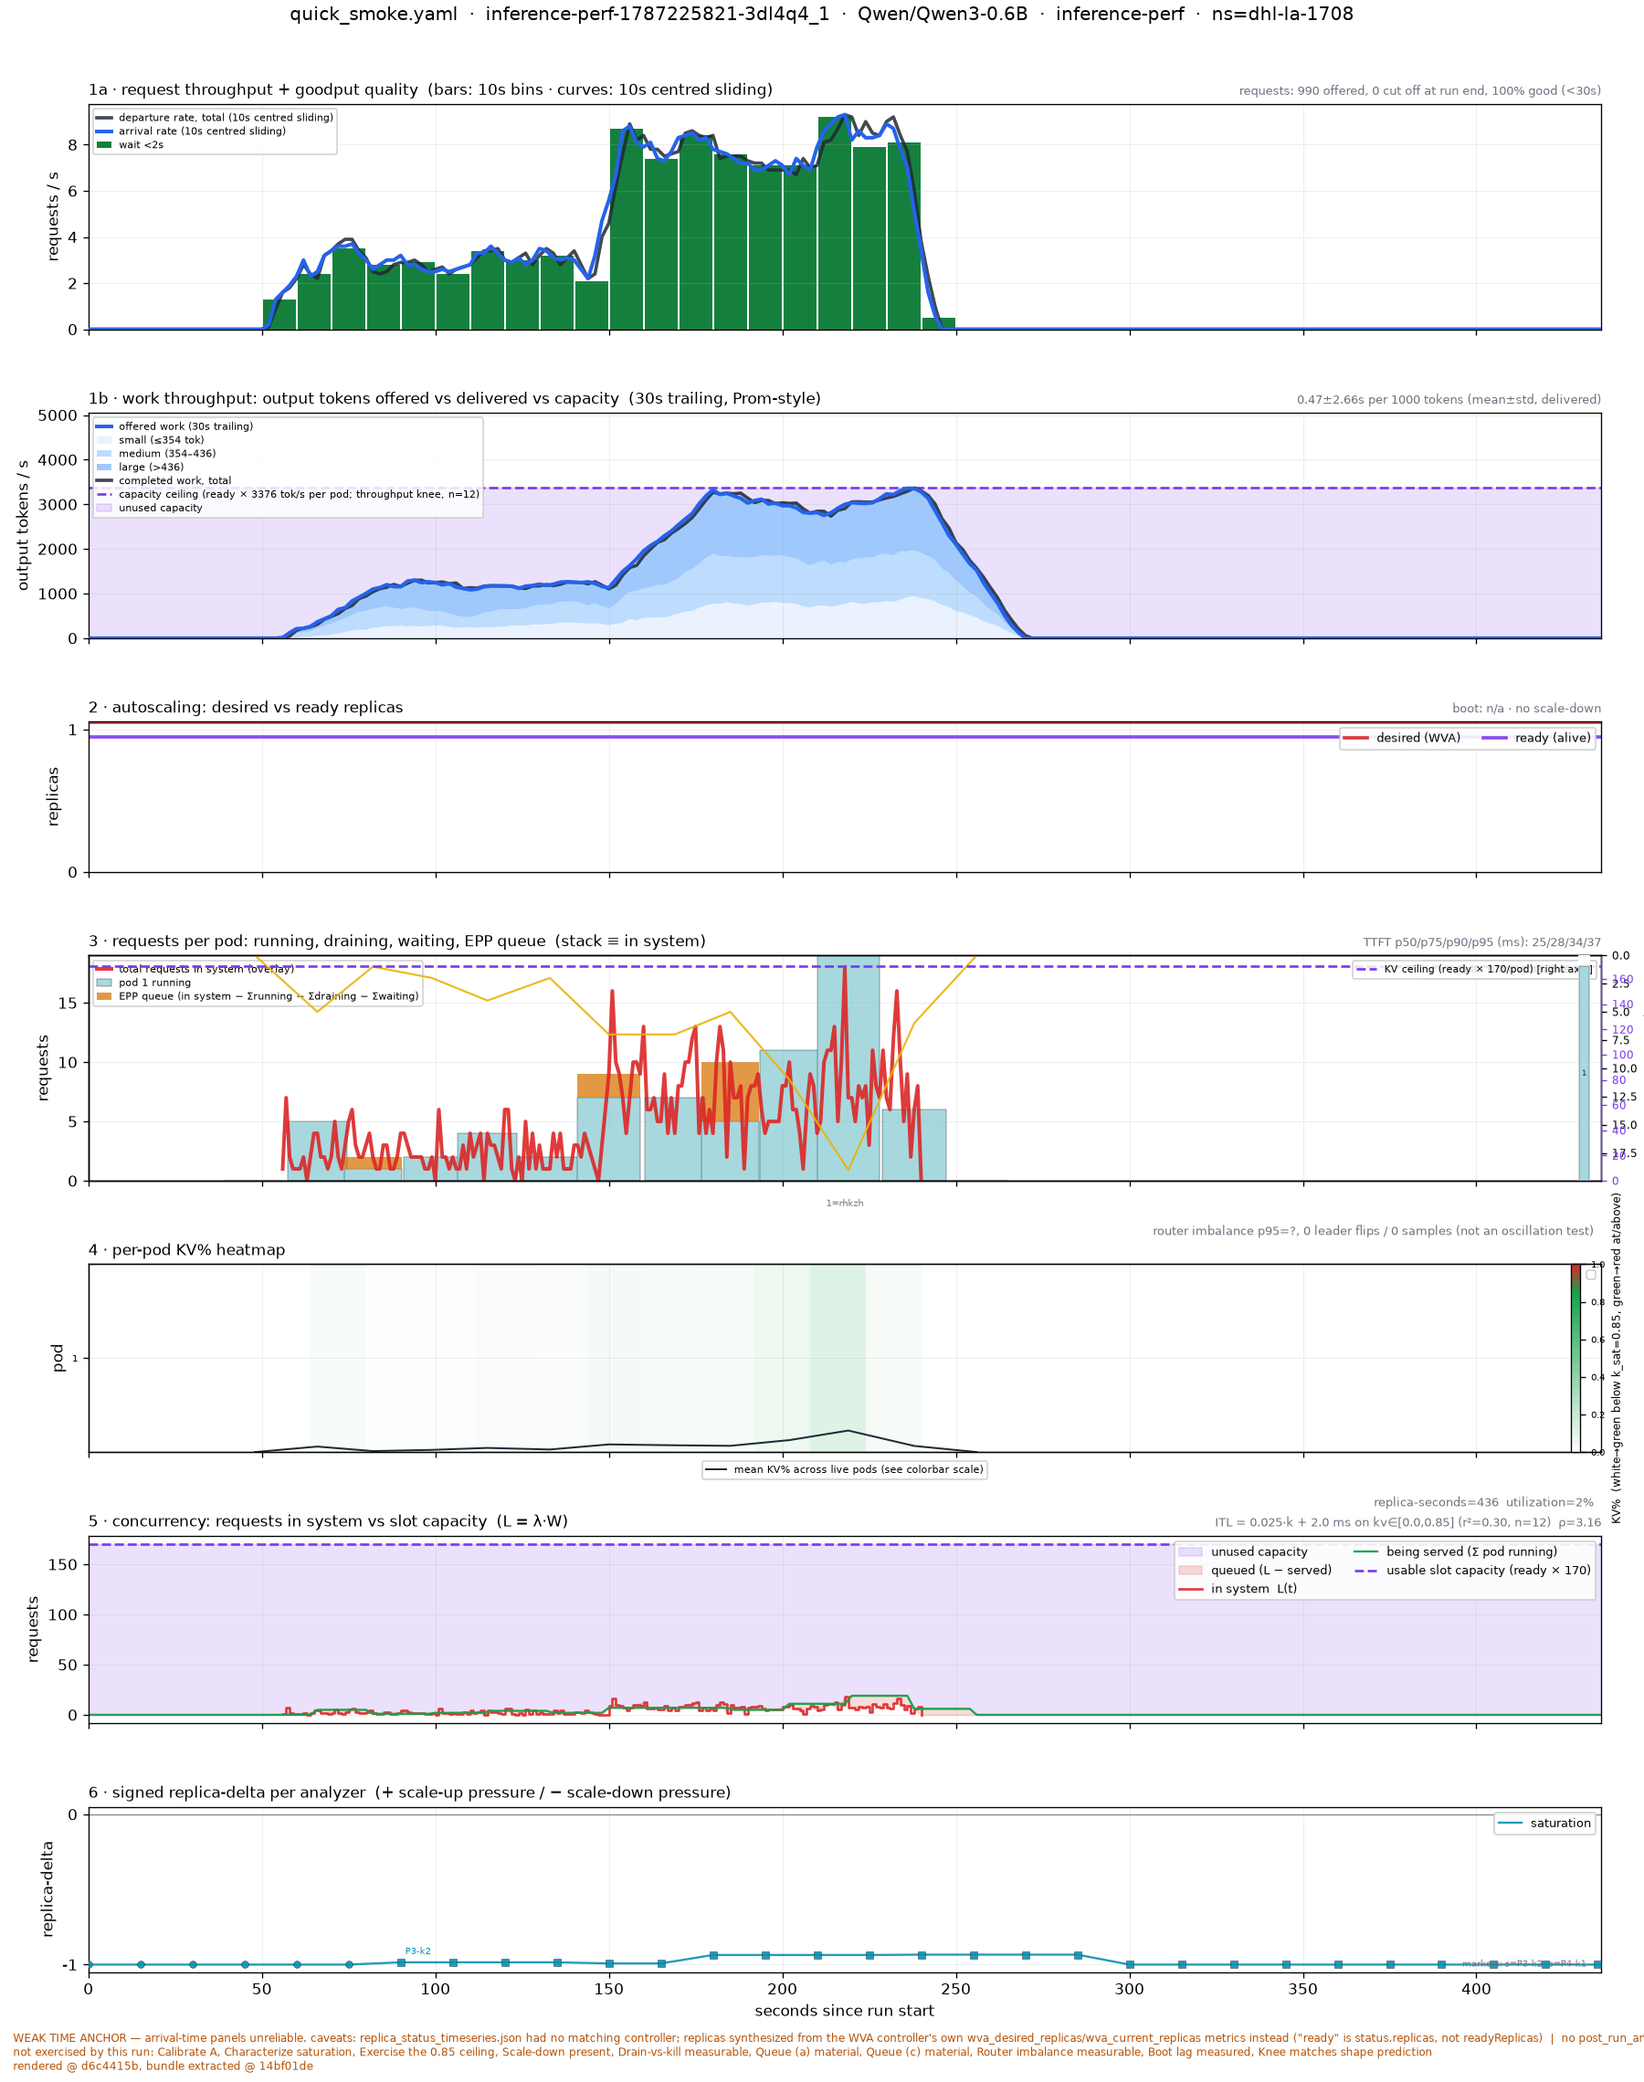
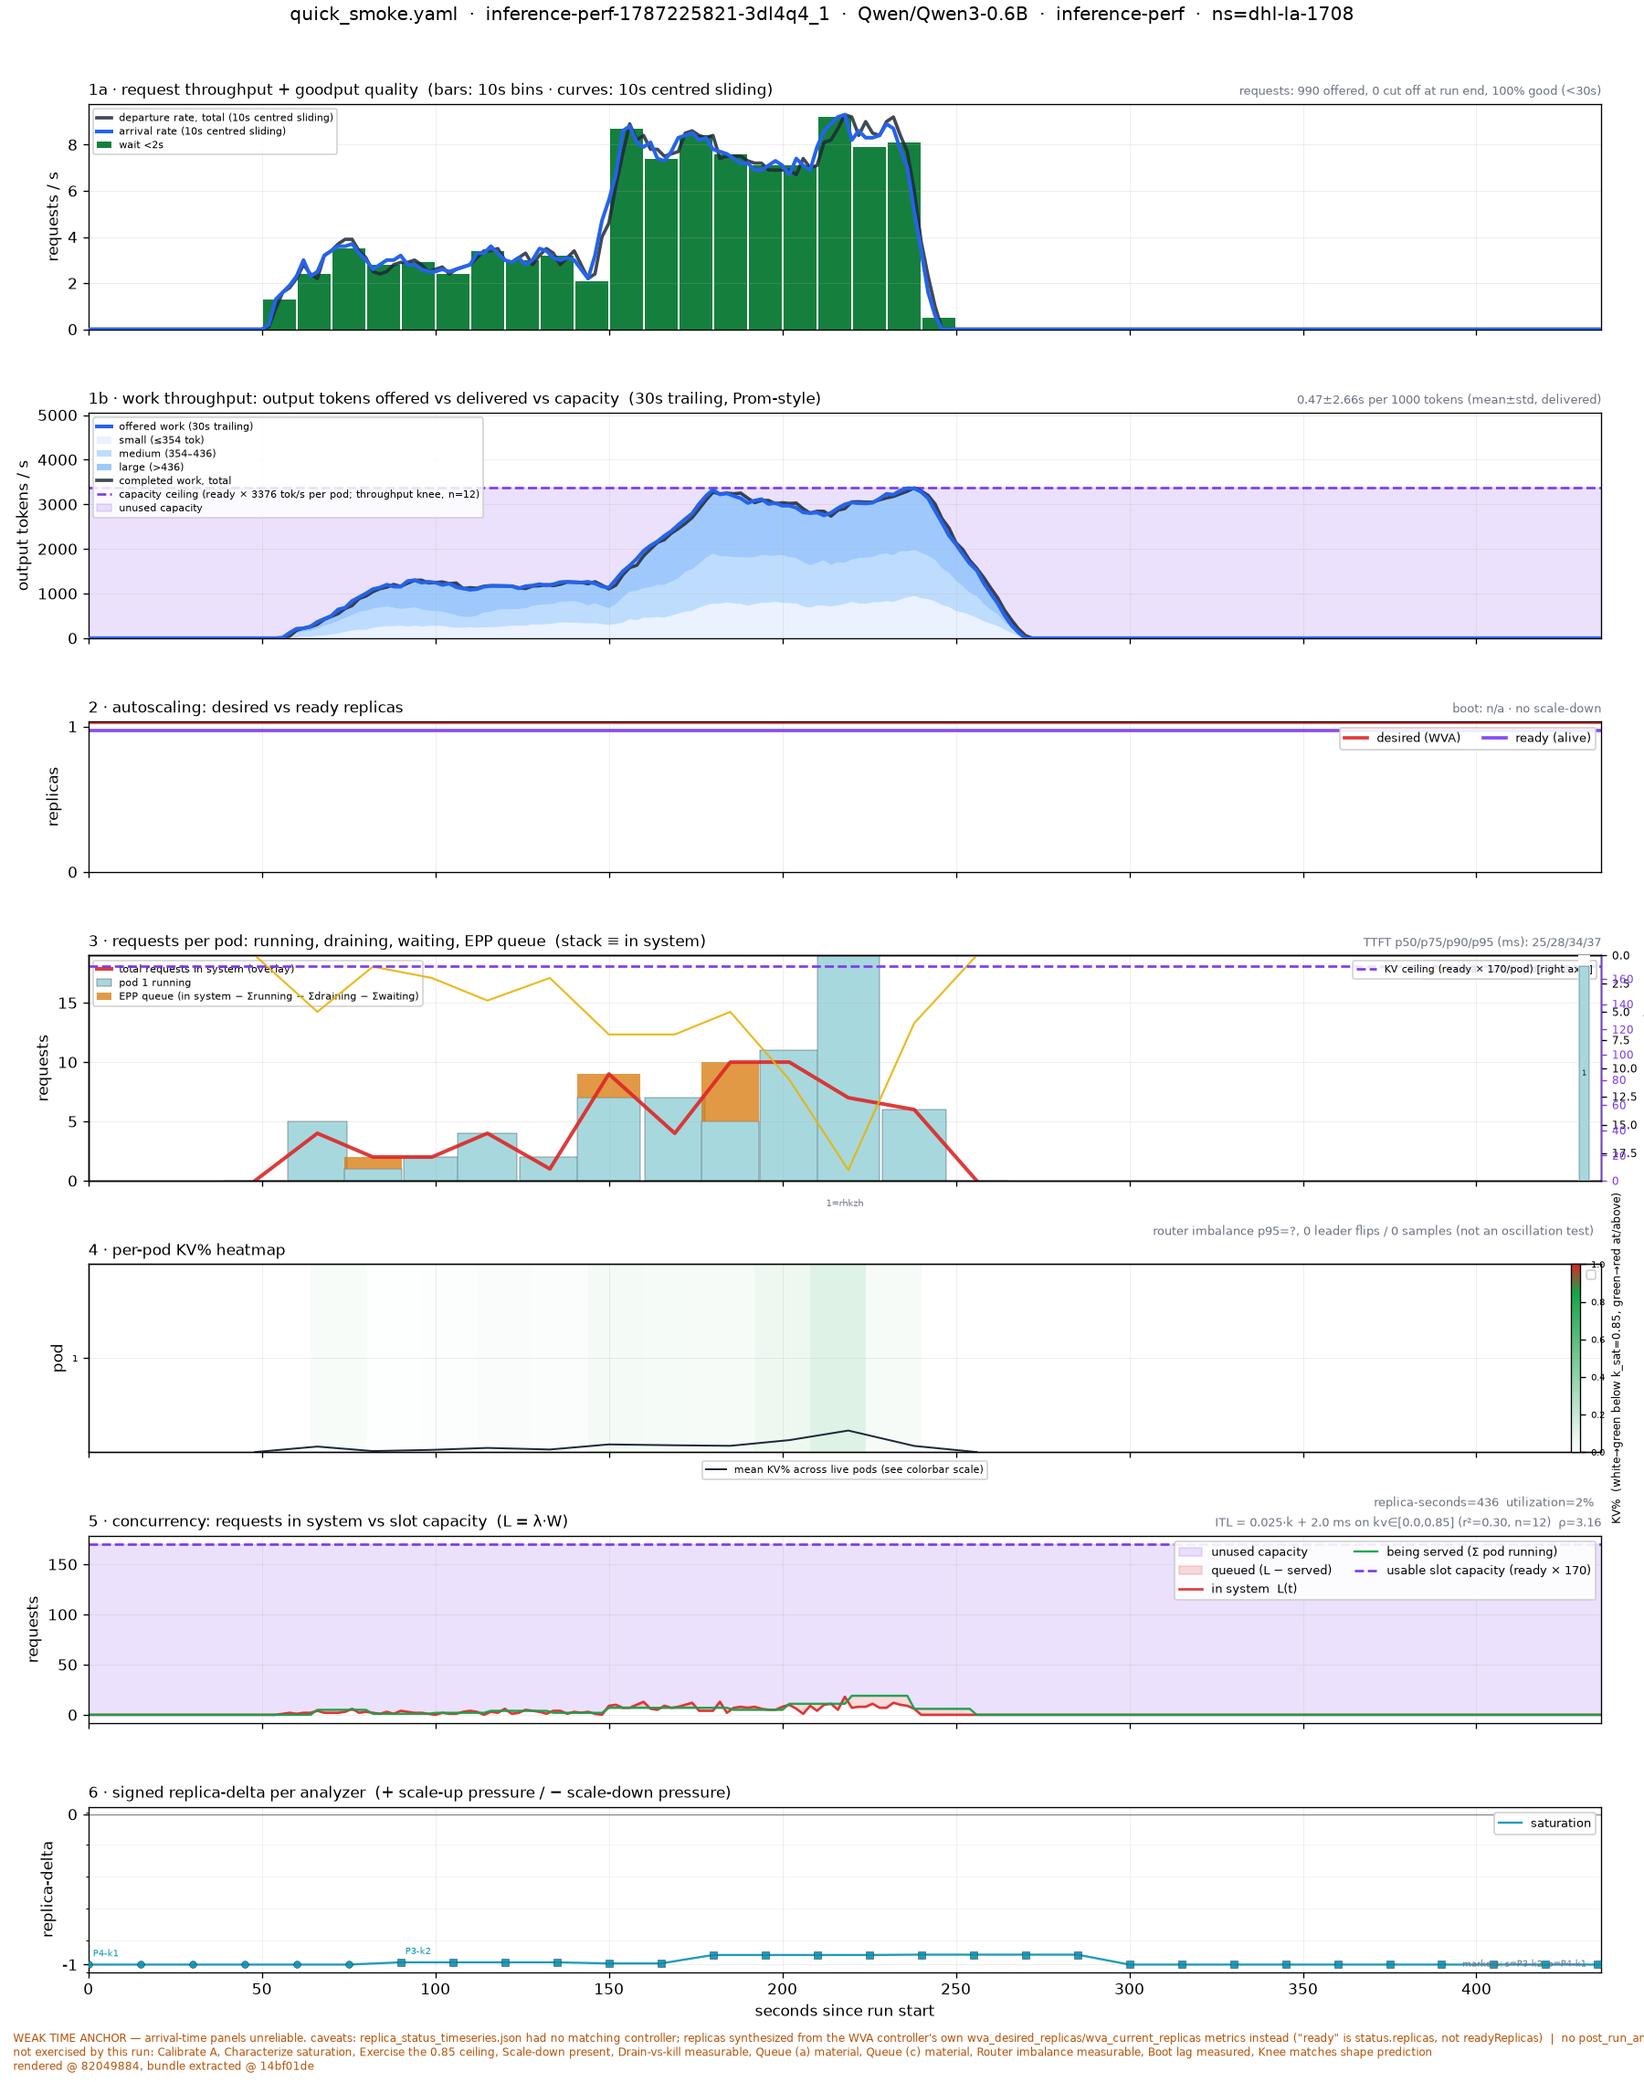
fix(benchmark): align panel 3/5 in-system line to the pod-scrape grid, proportional p2 offset, p6 minor ticks + visible-window first label
panel 3/5: the visible red "in system" line was plotting the raw per-
request-event reconstruction directly (Dean: "the red line does not hit
the mid top of each bar" / "in-sys signal look cut at ~240s + falls
under being served"). A properly grid-aligned version (insys_p/nsys_g,
built with hold()) already existed in both panels but was only being
used for the EPP-queue band and queued-area math, never for the line
itself -- the two are on completely different clocks (per-request-event
seconds vs ~17s pod-scrape instants), so the line was never going to
land on a bar's centre, and it has no data at all once the last request
departs while the pod-scrape-driven bars/served line keep going. Both
panels now plot the same held, grid-aligned series already computed for
their own area math -- one true value per bar, held forward like the
metrics it's being compared against.

panel 2: offset between desired/ready made proportional to the actual
data range (3%, floor 0.02) instead of a fixed 0.05 -- unreadable-thin
on a 0..10 run, was only ever tuned for a 0..1 one.

panel 6: two more fixes on top of the FixedLocator from the previous
commit -- (1) minor tick lines (AutoMinorLocator + faint major/minor
grid) as a reading aid between the unevenly log2-spaced majors; (2) a
reason code's first-ever occurrence can predate the plotted window
entirely (confirmed real: -296s relative to this panel's own t0, since
the controller logs continuously through an idle stretch before the
[…]

Changed region(s): [[0.0622, 0.3425, 0.8089, 0.3737], [0.1556, 0.4671, 0.5911, 0.5605]]

diff --git a/hack/benchmark/render_real_trace.py b/hack/benchmark/render_real_trace.py
@@ -52,7 +52,7 @@ try:
     import matplotlib
     matplotlib.use('Agg')
     import matplotlib.pyplot as plt
-    from matplotlib.ticker import MaxNLocator, FuncFormatter, FixedLocator
+    from matplotlib.ticker import MaxNLocator, FuncFormatter, FixedLocator, AutoMinorLocator
     from matplotlib.colors import LinearSegmentedColormap, to_rgba
     import numpy as np
 except ImportError:
@@ -647,11 +647,20 @@ def render(bundle, path, title=None, coverage=None):
         xs = [rel(r['t'], t0) for r in reps]
         dz = [r.get('desired') for r in reps]
         rz = [r.get('ready') for r in reps]
-        # tiny opposite y-offsets and equal weights, exactly as the synthetic
-        # figure: once ready catches up the two coincide, and neither may hide.
-        c.step(xs, [v + 0.05 if v is not None else None for v in dz], where='post',
+        # Tiny opposite y-offsets, exactly as the synthetic figure: once ready
+        # catches up the two coincide, and neither may hide. A fixed 0.05 was
+        # a sensible fraction of the axis on a run that never leaves 0..1,
+        # but reads as noise-thin on a run spanning 0..10 -- scaled to 3% of
+        # the actual desired/ready range instead. On a run where the two
+        # never differ at all (range 0), fall back to 3% of the value itself
+        # so the offset still means something relative to what's plotted.
+        dr_vals = [v for v in dz + rz if v is not None]
+        dr_range = (max(dr_vals) - min(dr_vals)) if dr_vals else 0
+        dr_scale = dr_range if dr_range > 0 else (max(dr_vals) if dr_vals else 1)
+        offset = max(0.02, 0.03 * dr_scale)
+        c.step(xs, [v + offset if v is not None else None for v in dz], where='post',
                color=C_DES, lw=2.2, alpha=0.9, label='desired (WVA)')
-        c.step(xs, [v - 0.05 if v is not None else None for v in rz], where='post',
+        c.step(xs, [v - offset if v is not None else None for v in rz], where='post',
                color=C_ACT, lw=2.2, alpha=0.9, label='ready (alive)')
         # A replica that is alive but no longer wanted is draining: still finishing
         # in-flight work, not accepting new work, so NOT usable capacity. Kept even
@@ -1010,11 +1019,22 @@ def render(bundle, path, title=None, coverage=None):
                 d.bar(xs, epp, width=width, bottom=bottom, color=C_Q, alpha=0.75,
                       label='EPP queue (in system − Σrunning − Σdraining − Σwaiting)',
                       zorder=1)
-        yn = []
-        if sys_by_t:
-            # thick overlay, NOT part of the stack
-            xn, yn = step_series(system, 'in_system', t0)
-            d.plot(xn, yn, color=C_WAIT, lw=2.4, alpha=0.9, zorder=2.8,
+        if insys_p:
+            # Plotting insys_p (already computed above for the EPP-queue
+            # band, held onto pgrid) rather than the raw per-request-event
+            # series: the two live on completely different clocks -- this
+            # panel's bars sit on pod-scrape instants (~17s apart), while a
+            # per-request reconstruction ticks at ~1s, on whichever second
+            # some request happened to arrive or depart. Plotted directly
+            # (Dean: "the red line does not hit the mid top of each bar"),
+            # the two were never going to land on the same x, no matter how
+            # closely either was sampled. insys_p already shares xs exactly
+            # -- the line now passes through the SAME value each bar's own
+            # residual math used, at the bar's own centre. It also holds the
+            # last real value across the rest of pgrid rather than vanishing
+            # the moment the last request departs, matching the pod-metric
+            # bars' own continued (idle) presence past that point.
+            d.plot(xs, insys_p, color=C_WAIT, lw=2.4, alpha=0.9, zorder=2.8,
                    label='total requests in system (overlay)')
         if cap.get('max_conc_pred') and reps:
             xr, yr = step_series(reps, 'ready', t0)
@@ -1023,7 +1043,7 @@ def render(bundle, path, title=None, coverage=None):
             # stack the same way panel 1b's uncapped ceiling did -- except
             # here the fix is a secondary axis (not a cap), since the ceiling
             # is a step line, not a fill the stack needs to stay clear of.
-            insys_max = max((yn or [0]), default=0)
+            insys_max = max((insys_p or [0]), default=0)
             ceil_max = max(ceil_y, default=0)
             close = insys_max == 0 or abs(ceil_max - insys_max) <= 0.10 * insys_max
             if close:
@@ -1280,14 +1300,6 @@ def render(bundle, path, title=None, coverage=None):
                 if s.get('in_system') is not None}
     if sys_by_t:
         nsys_g = hold(sys_by_t, grid)
-    # For the L(t) line on panel 5 we also keep the direct (un-resampled)
-    # sample-point times so it can be plotted at the actual scrape instants --
-    # hold() onto `grid` places the step at the first grid tick >= the sample
-    # time (up to GRID=2s late), while panel 3's bars are centered on the
-    # scrape time itself; using the direct times closes that half-step visual
-    # offset.  (panel-review-20260817 item 6)
-    nsys_direct = [(rel(s['t'], t0), s['in_system'])
-                   for s in system if s.get('in_system') is not None]
     served_by_t = {}
     for p in pods.values():
         for s in p['series'] or []:
@@ -1307,15 +1319,20 @@ def render(bundle, path, title=None, coverage=None):
     if served_g and nsys_g:
         f.fill_between(grid, served_g, nsys_g, color=C_WAIT, alpha=0.16,
                        label='queued (L − served)')
-    if nsys_direct:
-        # Plot at direct sample times (drawstyle='steps-post' holds each value
-        # forward until the next sample) so the L(t) line aligns with panel 3's
-        # bar centers, which are also at actual scrape times.
-        # (panel-review-20260817 item 6)
-        nsys_xs = [x for x, _ in nsys_direct]
-        nsys_ys = [y for _, y in nsys_direct]
-        f.plot(nsys_xs, nsys_ys, color=C_WAIT, lw=1.6, alpha=0.9,
-               drawstyle='steps-post',
+    if nsys_g:
+        # Previously plotted at nsys_direct's raw per-request-event times
+        # instead (panel-review-20260817 item 6), to avoid hold()'s up-to-
+        # GRID=2s-late placement -- a fine tradeoff on this panel's own
+        # uniform `grid`. But once the last request departs, nsys_direct has
+        # no more points at all: the line simply stopped being drawn there,
+        # which reads as "in system" silently dropping BELOW "being served"
+        # (Dean: "in-sys signal look cut at ~240s + falls under being
+        # served") rather than correctly holding at its last real value the
+        # way the pod-metric-derived served_g continues to. nsys_g (already
+        # computed above for the queued-area fill, held onto this same
+        # `grid`) does not have that gap -- a few seconds of late placement
+        # is a smaller, less misleading cost than the line vanishing.
+        f.plot(grid, nsys_g, color=C_WAIT, lw=1.6, alpha=0.9,
                label='in system  L(t)' + (' — SAMPLE' if sampled else ''))
     if served_g:
         f.plot(grid, served_g, color=C_SERVED, lw=1.4, alpha=0.95,
@@ -1323,7 +1340,7 @@ def render(bundle, path, title=None, coverage=None):
     if slots_g:
         f.plot(grid, slots_g, color=C_CEIL, ls='--', lw=1.6,
                label=f"usable slot capacity (ready × {cap['max_conc_pred']:.0f})")
-    if nsys_direct or nsys_g or served_g:
+    if nsys_g or served_g:
         fit = der.get('itl_fit') or {}
         if fit.get('A_ms_per_req'):
             f.set_title(f"ITL = {fit['A_ms_per_req']:.3f}·k + {fit['B_ms']:.1f} ms "
@@ -1386,6 +1403,21 @@ def render(bundle, path, title=None, coverage=None):
     lanes = sorted(by_analyzer)
     if lanes:
         reason_markers = {}
+        # A reason code's TRUE first occurrence can predate the plotted
+        # window entirely -- the controller logs analyzer ticks continuously,
+        # including a long idle stretch before the harness generates any
+        # load (confirmed real: -296s relative to this panel's own t0). The
+        # marker for that off-screen tick never appears at all, so if "first
+        # occurrence" for LABELLING purposes stays tied to that same global
+        # first-seen check, every marker actually visible in the panel is
+        # (correctly, by that check) a repeat, and none of them get a label
+        # -- reading as "no label on the first visible mark" even though the
+        # code did label something, just off-screen. Tracked separately from
+        # reason_markers (which still assigns shapes in true chronological
+        # order, keeping that assignment stable regardless of view window):
+        # a reason is label-worthy the first time it appears at x >= 0,
+        # independent of whether that is its first appearance ever.
+        labeled_reasons = set()
         MARKER_SHAPES = ['o', 's', '^', 'D', 'v', 'P', 'X']
         absent_t = slog.get('saturation_absent_at')
         # First-occurrence label placements are collected, not drawn inline,
@@ -1471,14 +1503,14 @@ def render(bundle, path, title=None, coverage=None):
                           edgecolor=INK, linewidth=0.3,
                           label='_nolegend_', zorder=2.6)
                 # Label the reason code directly on the plot the first time
-                # it's plotted anywhere in the panel (global across analyzer
-                # lines, tracked by reason_markers' own insertion -- reuses
-                # the same dedup the shape assignment already does above,
-                # rather than a second tracking structure). The text key
-                # still documents the full shape-to-reason mapping; this
-                # makes the first occurrence of each one easy to find
-                # without cross-referencing the key every time.
-                if first_occurrence:
+                # it's plotted ON SCREEN (x >= 0), not the first time
+                # anywhere in the analyzer's full history -- see
+                # labeled_reasons' own comment above for why those differ.
+                # The text key still documents the full shape-to-reason
+                # mapping; this makes the first VISIBLE occurrence of each
+                # one easy to find without cross-referencing the key.
+                if reason not in labeled_reasons and x >= 0:
+                    labeled_reasons.add(reason)
                     pending_labels.append((x, y, reason, color))
         # Stagger labels whose x-positions are close together (within 3% of
         # the panel's own span) onto alternating vertical offsets, so close-
@@ -1541,6 +1573,16 @@ def render(bundle, path, title=None, coverage=None):
         g.yaxis.set_major_locator(
             FixedLocator([signed_log2(y) for y in (-8, -4, -2, -1, 0, 1, 2, 4, 8)]))
         g.yaxis.set_major_formatter(FuncFormatter(inv_signed_log2))
+        # Minor ticks between the (unevenly log2-spaced) major ones, as a
+        # reading aid for where a point sits between two labelled values --
+        # unlabelled, so they cannot repeat the major ticks' own rounding
+        # collision. AutoMinorLocator subdivides each major interval by
+        # count rather than by requiring even spacing, so this is safe on a
+        # log-space axis despite the majors themselves not being evenly
+        # spaced.
+        g.yaxis.set_minor_locator(AutoMinorLocator())
+        g.grid(which='minor', axis='y', alpha=0.15, lw=0.5)
+        g.grid(which='major', axis='y', alpha=0.3, lw=0.6)
         # The old shipped version placed this text differently depending on
         # whether saturation had its own horizontal lane -- panel 6 no longer
         # has per-analyzer lanes (every analyzer's line now spans the full
